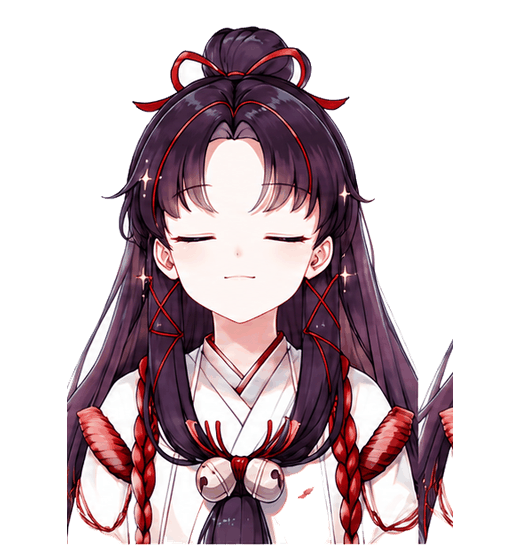
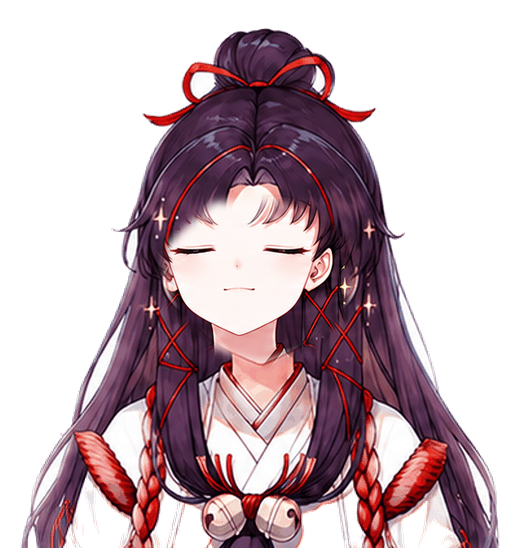
Refine mascot blink expression

diff --git a/scripts/refine_mascot_frames.py b/scripts/refine_mascot_frames.py
@@ -8,12 +8,26 @@ from PIL import Image, ImageChops, ImageDraw, ImageFilter, ImageOps
 
 ROOT = Path(__file__).resolve().parents[1]
 OUT = ROOT / "public" / "images" / "mascot-frames"
+BLINK_SRC = ROOT / "ChatGPT Image 2026年5月9日 17_10_19.png"
 LOOK_SRC = ROOT / "ChatGPT Image 2026年5月9日 17_10_55.png"
 WAVE_SRC = ROOT / "ChatGPT Image 2026年5月9日 16_58_49.png"
 
 CANVAS = (520, 560)
 BASELINE = 548
 PREVIEW_CELL = (188, 182)
+BLINK_FRAME_NAMES = ["open", "half-1", "half-2", "closed", "open-2"]
+BLINK_FACE_SHIFT_Y = 10
+BLINK_EXPRESSION_POLYGON = [
+    (212, 202),
+    (308, 202),
+    (357, 248),
+    (347, 315),
+    (306, 348),
+    (260, 362),
+    (214, 348),
+    (173, 315),
+    (163, 248),
+]
 WAVE_ARM_CUTS = [
     (344, 220),
     (342, 198),
@@ -229,6 +243,16 @@ def build_stable_wave_frame(base: Image.Image, source: Image.Image, index: int) 
     return repair_lower_garment_holes(frame, row_fill=False)
 
 
+def compose_blink_expression(base: Image.Image, donor: Image.Image) -> Image.Image:
+    shifted = Image.new("RGBA", CANVAS, (255, 255, 255, 0))
+    shifted.alpha_composite(donor.convert("RGBA"), (0, BLINK_FACE_SHIFT_Y))
+
+    mask = Image.new("L", CANVAS, 0)
+    ImageDraw.Draw(mask).polygon(BLINK_EXPRESSION_POLYGON, fill=255)
+    mask = mask.filter(ImageFilter.GaussianBlur(4))
+    return Image.composite(shifted, base.convert("RGBA"), mask)
+
+
 def crop_grid(image: Image.Image, cols: int, rows: int, index: int) -> Image.Image:
     col = index % cols
     row = index // cols
@@ -280,7 +304,8 @@ def refine_up_down_look_frames() -> None:
     center = repair_lower_garment_holes(Image.open(OUT / "look" / "center.png").convert("RGBA"))
     center.save(OUT / "look" / "center.png")
 
-    up = repair_lower_garment_holes(normalize_frame(crop_grid(look_sheet, 3, 3, 2), target_height=527))
+    up_crop = crop_grid(look_sheet, 3, 3, 2)
+    up = repair_lower_garment_holes(normalize_frame(up_crop, target_height=527))
     w, h = look_sheet.size
     down_crop = look_sheet.crop((round(2 * w / 3), round(2 * h / 3) + 24, w, h))
     down = repair_lower_garment_holes(normalize_frame(down_crop, target_height=527))
@@ -296,6 +321,20 @@ def refine_up_down_look_frames() -> None:
     ImageOps.mirror(left).save(OUT / "look" / "right.png")
     ImageOps.mirror(up_left).save(OUT / "look" / "up-right.png")
     ImageOps.mirror(down_left).save(OUT / "look" / "down-right.png")
+
+
+def regenerate_blink_frames() -> None:
+    blink_sheet = Image.open(BLINK_SRC).convert("RGBA")
+    base = Image.open(OUT / "look" / "center.png").convert("RGBA")
+    for index, name in enumerate(BLINK_FRAME_NAMES):
+        if name in {"open", "open-2"}:
+            base.save(OUT / "blink" / f"{name}.png")
+            continue
+
+        crop = crop_strip(blink_sheet, len(BLINK_FRAME_NAMES), index)
+        donor = normalize_frame(crop, target_height=521)
+        frame = compose_blink_expression(base, donor)
+        frame.save(OUT / "blink" / f"{name}.png")
 
 
 def blend(a_path: Path, b_path: Path, out_path: Path, alpha: float) -> None:
@@ -316,7 +355,7 @@ def create_inbetweens() -> None:
 
 def align_all_bottoms() -> None:
     files = []
-    for sub in ["look", "wave"]:
+    for sub in ["look", "blink", "wave"]:
         files.extend((OUT / sub).glob("*.png"))
     for path in files:
         image = Image.open(path).convert("RGBA")
@@ -331,7 +370,7 @@ def align_all_bottoms() -> None:
 
 def quantize_pngs() -> None:
     files = []
-    for sub in ["look", "wave"]:
+    for sub in ["look", "blink", "wave"]:
         files.extend((OUT / sub).glob("*.png"))
     for png in sorted(files):
         image = Image.open(png).convert("RGBA")
@@ -373,8 +412,7 @@ def build_preview() -> None:
 
 
 def audit() -> None:
-    files = sorted([*(OUT / "look").glob("*.png"), *(OUT / "wave").glob("*.png")])
-    retained_blink_files = sorted((OUT / "blink").glob("*.png"))
+    files = sorted([*(OUT / "look").glob("*.png"), *(OUT / "blink").glob("*.png"), *(OUT / "wave").glob("*.png")])
     sizes = set()
     bottoms = set()
     for path in files:
@@ -383,10 +421,6 @@ def audit() -> None:
         bottoms.add(alpha_bbox(image)[3])
     assert sizes == {CANVAS}, sizes
     assert max(bottoms) - min(bottoms) <= 1, bottoms
-
-    for path in retained_blink_files:
-        image = Image.open(path).convert("RGBA")
-        assert image.size == CANVAS, (path, image.size)
 
     for left_name, right_name in [
         ("left.png", "right.png"),
@@ -398,14 +432,14 @@ def audit() -> None:
         assert ImageChops.difference(ImageOps.mirror(left), right).getbbox() is None
 
     print(
-        f"motion_frames={len(files)} retained_blink_frames={len(retained_blink_files)} "
-        f"sizes={sorted(sizes)} bottoms={sorted(bottoms)}"
+        f"motion_frames={len(files)} sizes={sorted(sizes)} bottoms={sorted(bottoms)}"
     )
 
 
 def main() -> None:
-    regenerate_wave_frames()
     refine_up_down_look_frames()
+    regenerate_blink_frames()
+    regenerate_wave_frames()
     create_inbetweens()
     align_all_bottoms()
     quantize_pngs()

diff --git a/README.md b/README.md
@@ -48,15 +48,15 @@ draft: false
 - sitemap：由 Astro sitemap 集成生成，帮助搜索引擎发现页面。
 - robots.txt：公开爬虫规则并声明 sitemap 地址。
 - 评论占位：现在只留位置，不连接任何评论服务。
-- 二次元小角色：使用 `public/images/mascot-frames/` 中的动作帧，支持鼠标视线方向切换、正面空闲眼部眨眼、点击挥手、拖动位置和隐藏；移动端隐藏，不连接后端。眨眼时用前端眼皮层真实盖住眼睛，挥手时用静止底图叠加右臂动作，避免身体大幅漂移。
+- 二次元小角色：使用 `public/images/mascot-frames/` 中的动作帧，支持鼠标视线方向切换、正面空闲眨眼、点击挥手、拖动位置和隐藏；移动端隐藏，不连接后端。眨眼直接播放 `blink/` 里的慢速表情帧，保持身体稳定；挥手时用静止底图叠加右臂动作，避免身体大幅漂移。
 
 图片资源放在 `public/images/`：
 
 - `site-bg.jpg`：页面背景图，显示时约 45% 不透明度。
 - `mascot-frames/look/`：九宫格视线方向帧，用于根据鼠标位置切换小人朝向；右向帧由左向帧镜像生成，保证左右一致。
-- `mascot-frames/blink/`：保留眨眼审核帧；实际网页眨眼使用正面帧上的 CSS 眼皮层，只改变眼部，不切换整张人物图。
+- `mascot-frames/blink/`：保留眨眼审核帧；实际网页眨眼直接播放这些合成帧，只让脸部表情变化，睁眼帧保持正面身体稳定。
 - `mascot-frames/wave/`：打招呼帧，用于点击或显示时的挥手动作；包含算法补出的 `wave-*-to-*` 过渡帧，让动作更连贯。当前挥手帧以静止正面帧为底图，再叠加右臂动作，减少身位变化。
-- `scripts/refine_mascot_frames.py`：使用 `uv` 虚拟环境中的 Pillow 重新生成动作帧、修复挥手切分边界、补正上/正下视角、填补下摆透明破洞和生成补帧。
+- `scripts/refine_mascot_frames.py`：使用 `uv` 虚拟环境中的 Pillow 重新生成动作帧、修复挥手切分边界、补正上/正下视角、填补下摆透明破洞、生成补帧，并把眨眼帧合成为更慢、更稳定的表情序列。
 - 所有动作帧统一为同一画布和同一底部基线，避免动作之间忽大忽小。
 - `mascot-frames/preview.jpg`：动作帧预览图，只用于本地检查，不提交到仓库。
 

diff --git a/requirements.md b/requirements.md
@@ -402,6 +402,8 @@ src/components/CursorCharacter.astro
 - 眨眼闭合时必须遮住原本睁开的虹膜和眼白区域，不能只显示睫毛线而保留睁眼效果
 - 打招呼动作应从静止正面状态自然进入挥手状态，身体、头部和服饰主体不应在挥手过程中大幅位移或缩放；优先让身体保持稳定，只让手臂/手部产生主要动作变化
 - 动作帧下方服饰区域不能保留明显不规则透明破洞；应通过本地可复现的 alpha 修复或局部填补方式恢复衣服主体，不要用会泄露源图或敏感信息的外部服务处理
+- 眨眼动作需要保留 `public/images/mascot-frames/blink/` 中半闭眼、闭眼帧的傲娇神情；播放速度不能过快，应使用更慢的帧序列表现自然眨眼，优先播放合成后的 PNG 帧序列，而不是再用整张人物切换
+- 修补残缺衣服、头发或白边时，应优先参考最初用户提供的源图中对应帧的原始内容进行局部合成，不应使用粗暴扩张 alpha 造成新白边或不自然块状区域
 - 移动端隐藏或简化，不遮挡正文
 - 尊重 `prefers-reduced-motion`
 

diff --git a/plan.md b/plan.md
@@ -47,3 +47,8 @@
 - [x] 重建稳定打招呼动作帧
 - [x] 填补动作帧下方服饰透明破洞
 - [x] 更新文档、运行检查并提交
+- [x] 更新眨眼表情和源图参考修补需求
+- [x] 生成保留傲娇神情的慢速眨眼合成帧
+- [x] 使用最初源图参考修补动作帧残缺和白边
+- [x] 更新组件播放序列和文档
+- [x] 运行检查并提交
